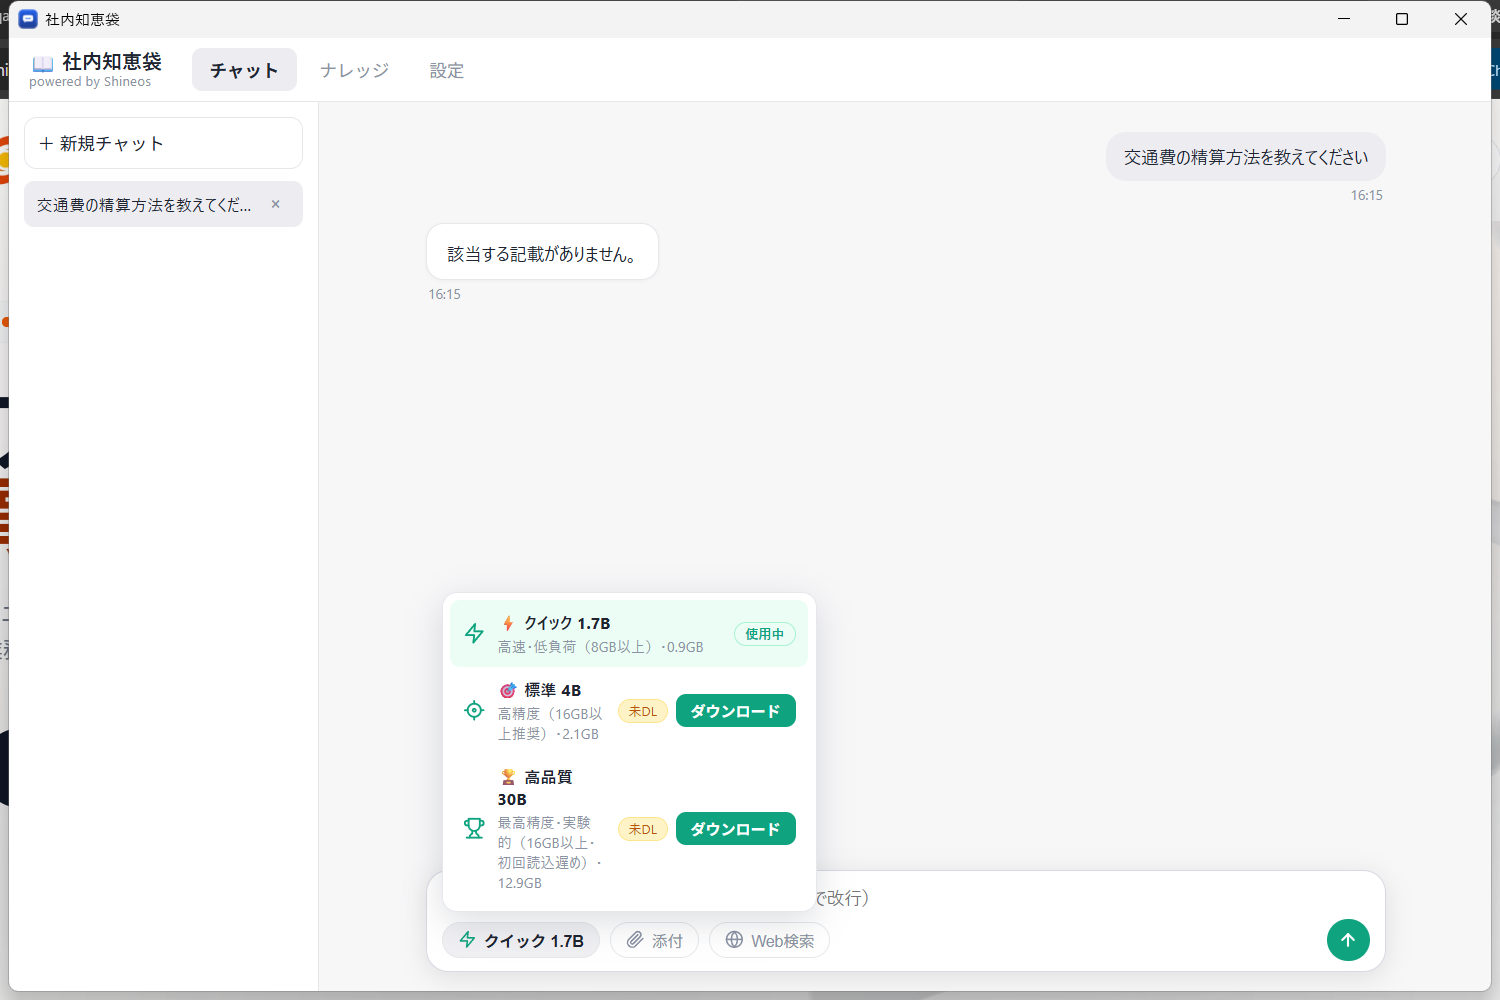
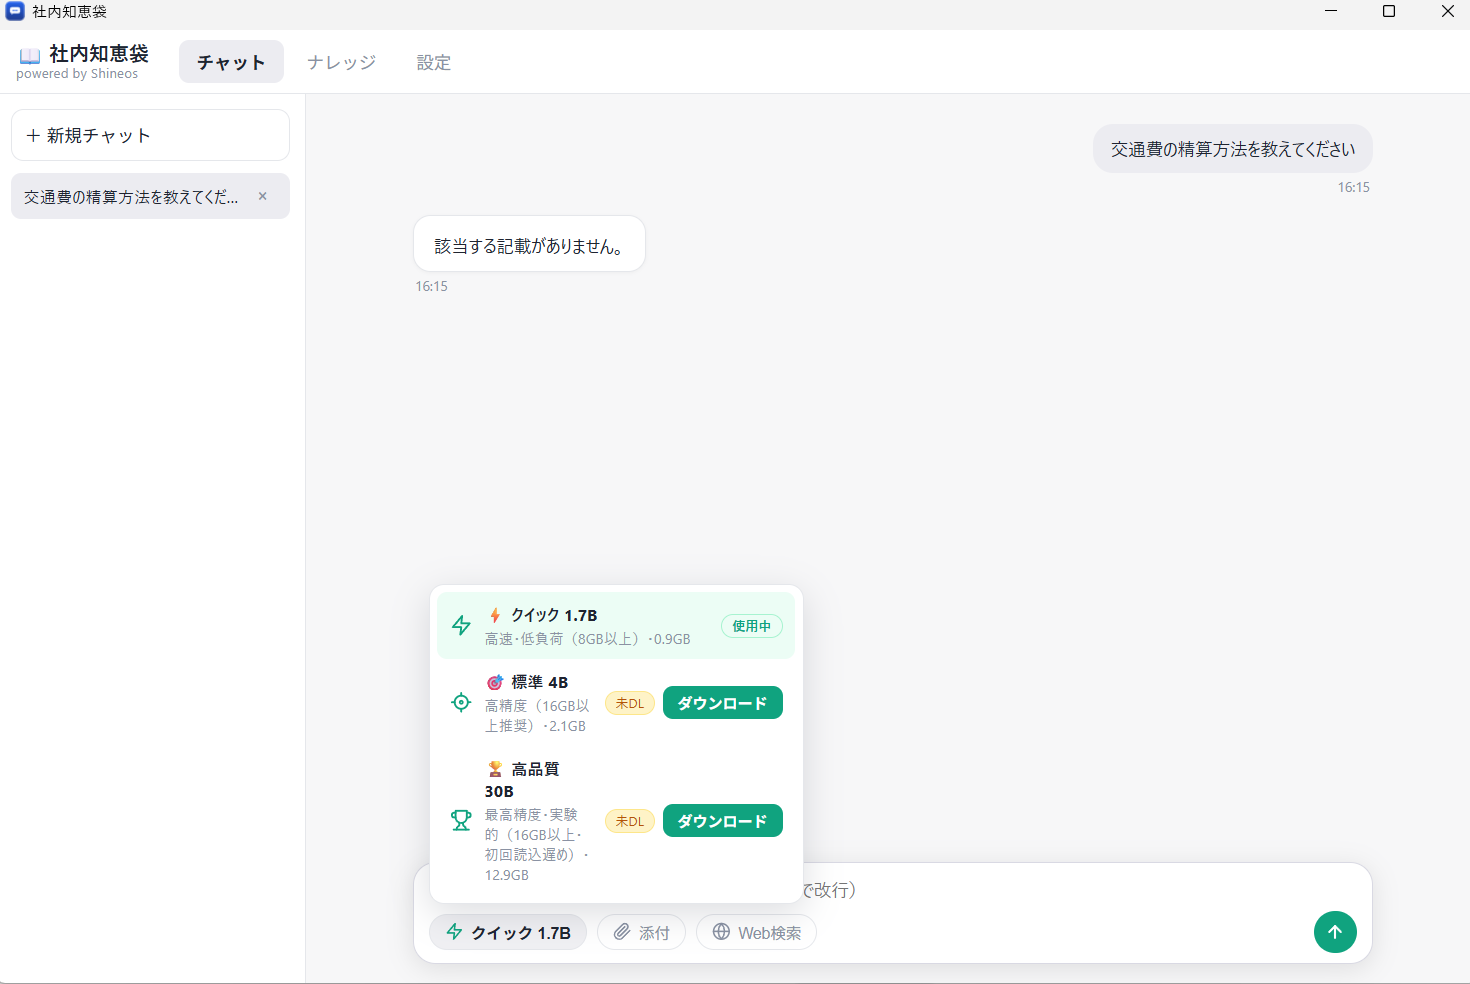
feat: Store listing assets — 1:1 box art (1080), 2:3 poster (720x1080), 1920x1080 hero promo
- assets/store-logo-1080.png: 1:1 Box art (required) — chat-bubble logo lockup
- assets/store-poster-720x1080.png: 2:3 Poster art (recommended) — large-type vertical promo
- assets/promo-hero.png: 1920x1080 hero promo (Store hero / SNS / OGP) based on app-02-chat.png
- assets/store-logo-300.png: regenerated as 300px downscale of the 1080 logo (previous file was corrupted noise since d46b158; also fixes MSIX package logo generation in CI)
- assets/screenshots/app-04-models.png: updated screenshot
- docs/store-submission.md: §7.3 keywords reduced to 7 (removed third-party trademark 'ChatGPT' — cert risk), §8 asset table now lists box art / poster / hero

diff --git a/docs/store-submission.md b/docs/store-submission.md
@@ -215,14 +215,13 @@
 >
 > Free (MIT License). Installation support: shineos.com
 
-### 7.3 検索キーワード（優先順位順・フォームの文字数上限に収まるよう上位から入力）
+### 7.3 検索キーワード（フォーム: 最大7個・合計21単語まで）
 
 ```
-社内QA, 社内文書検索, AI チャット, オフライン AI, ChatGPT オフライン, RAG,
-ナレッジベース, 社内規定, マニュアル検索, ローカル AI, 文書 検索, 社内AI
+社内QA, 社内文書検索, オフラインAI, ローカルAI, ナレッジベース, 社内規定, マニュアル検索
 ```
 
-※「ChatGPT オフライン」「AI チャット」は実際の検索語として流入が見込める語。掲載文・機能と乖離しない範囲で含める。
+※第三者商標（ChatGPT等）はキーワード入力すると認証で却下されうるため使わない（Storeポリシー 10.1 関連）。
 
 ---
 
@@ -230,7 +229,10 @@
 
 | アセット | ファイル | 状態 |
 |---|---|---|
-| Storeロゴ 300x300 PNG | `assets/store-logo-300.png` | ✓ 生成済み |
+| Storeロゴ 1:1 Box art（必須・1080x1080） | `assets/store-logo-1080.png`（78KB・app.icoデザインの青→緑版・角透過） | ✓ 2026-09-16更新 |
+| Storeロゴ 2:3 Poster（推奨・720x1080） | `assets/store-poster-720x1080.png`（411KB） | ✓ 2026-09-16生成 |
+| ヒーロー/宣伝画像（SNS・OGP・スクショ1枚目候補・1920x1080） | `assets/promo-hero.png`（935KB） | ✓ 2026-09-16生成 |
+| Storeロゴ 300x300 PNG（従来・MSIXパッケージ内ロゴのソース） | `assets/store-logo-300.png` | ✓ 生成済み |
 | スクリーンショット1 初回モデルDL（Store版の特徴・listing文の「初回起動時にモデル取得」と整合） | `assets/screenshots/app-00-model-download.png`（1481x987・要件1366x768以上を満たす） | ✓ 2026-09-16追加 |
 | スクリーンショット2 メイン画面 | `assets/screenshots/app-01-main.png`（1500x1000・要件1366x768以上を満たす） | ✓ |
 | スクリーンショット3 出典付き回答 | `assets/screenshots/app-02-chat.png` | ✓ |
@@ -300,19 +302,18 @@ MicrosoftのEXE認証テスト項目（[MSI/EXE認証プロセス](https://learn
 
 ## 13. 審査メモ（Notes for Certification）案
 
-申請フォームの「認証メモ」欄にそのまま貼る想定（英語で記載）:
+申請フォームの「認定のための注意書き」欄にそのまま貼る（英語で記載・lite版提出の流れに対応）:
 
-> This app is a fully offline internal-document Q&A tool. No account, no sign-in, and no network connection are required to evaluate it.
+> ShineosQA ("社内知恵袋") is an internal-document Q&A tool for Japanese companies. The UI is in Japanese. No account or sign-in is required.
 >
-> 1. Launch "社内知恵袋" (ShineosQA) from the Start menu / desktop icon. It opens in about 2 seconds.
-> 2. **Important**: The app answers only from documents registered in the "ナレッジ (Knowledge)" tab. With an empty knowledge base, any general question (e.g. "How tall is Mt. Fuji?") is answered with "該当する記載がありません" (not found in the knowledge base). This is intended anti-hallucination behavior, not a malfunction.
-> 3. To evaluate Q&A: drag & drop any PDF / Word / Markdown / text file onto the Knowledge tab, wait a few seconds for indexing, then ask a question about the file's content in Japanese. Answers include citations (document name and section).
-> 4. On first launch after installation, a one-time guide dialog about knowledge registration appears (can be skipped).
-> 5. The web-search toggle is OFF by default. When explicitly turned ON, only the typed query is sent to DuckDuckGo.
+> 1. **First launch requires internet**: the installer itself downloads nothing, but on the first app launch a welcome wizard downloads the required AI models (~2.3 GB total) from huggingface.co, with SHA-256 verification and a progress bar. In the wizard, we recommend choosing "クイック（既定・推奨）" (Quick 1.7B). After the download completes, the app reloads and then works fully offline. If a download fails, relaunching retries it.
+> 2. After the models are ready, a one-time guide dialog about registering knowledge documents appears (can be dismissed).
+> 3. **Important — intended behavior**: the app answers only from documents registered in the "ナレッジ (Knowledge)" tab. With an empty knowledge base, any general question (e.g., "How tall is Mt. Fuji?") is answered with "該当する記載がありません" ("not found in the knowledge base"). This is the intended anti-hallucination design, not a malfunction.
+> 4. To evaluate Q&A: open the "ナレッジ" tab and drag & drop any PDF / Word / Markdown / text file, wait a few seconds for indexing, then ask a question about the file's content in Japanese. The answer includes citations (document name and section).
+> 5. The web-search toggle is OFF by default. Only when explicitly turned ON is the typed query sent to DuckDuckGo.
 > 6. Closing the app stops all backend/engine processes and releases localhost port 8300 — nothing stays resident.
-> 7. **First-launch model download**: the installer downloads nothing. On the first app launch, a welcome wizard downloads the required AI models (~2.3 GB total: embedding, chat 1.7B, reranker) from huggingface.co with SHA-256 verification. **An internet connection is required on first launch**; after that the app is fully offline. Download progress is shown; if it fails, relaunching retries.
 >
-> Silent install (EXE form): `ShineosQA-Setup-<version>.exe /VERYSILENT /SUPPRESSMSGBOXES /NORESTART`
+> Silent install: `ShineosQA-Setup-2.1.0-lite.exe /VERYSILENT /SUPPRESSMSGBOXES /NORESTART`
 
 ---
 
